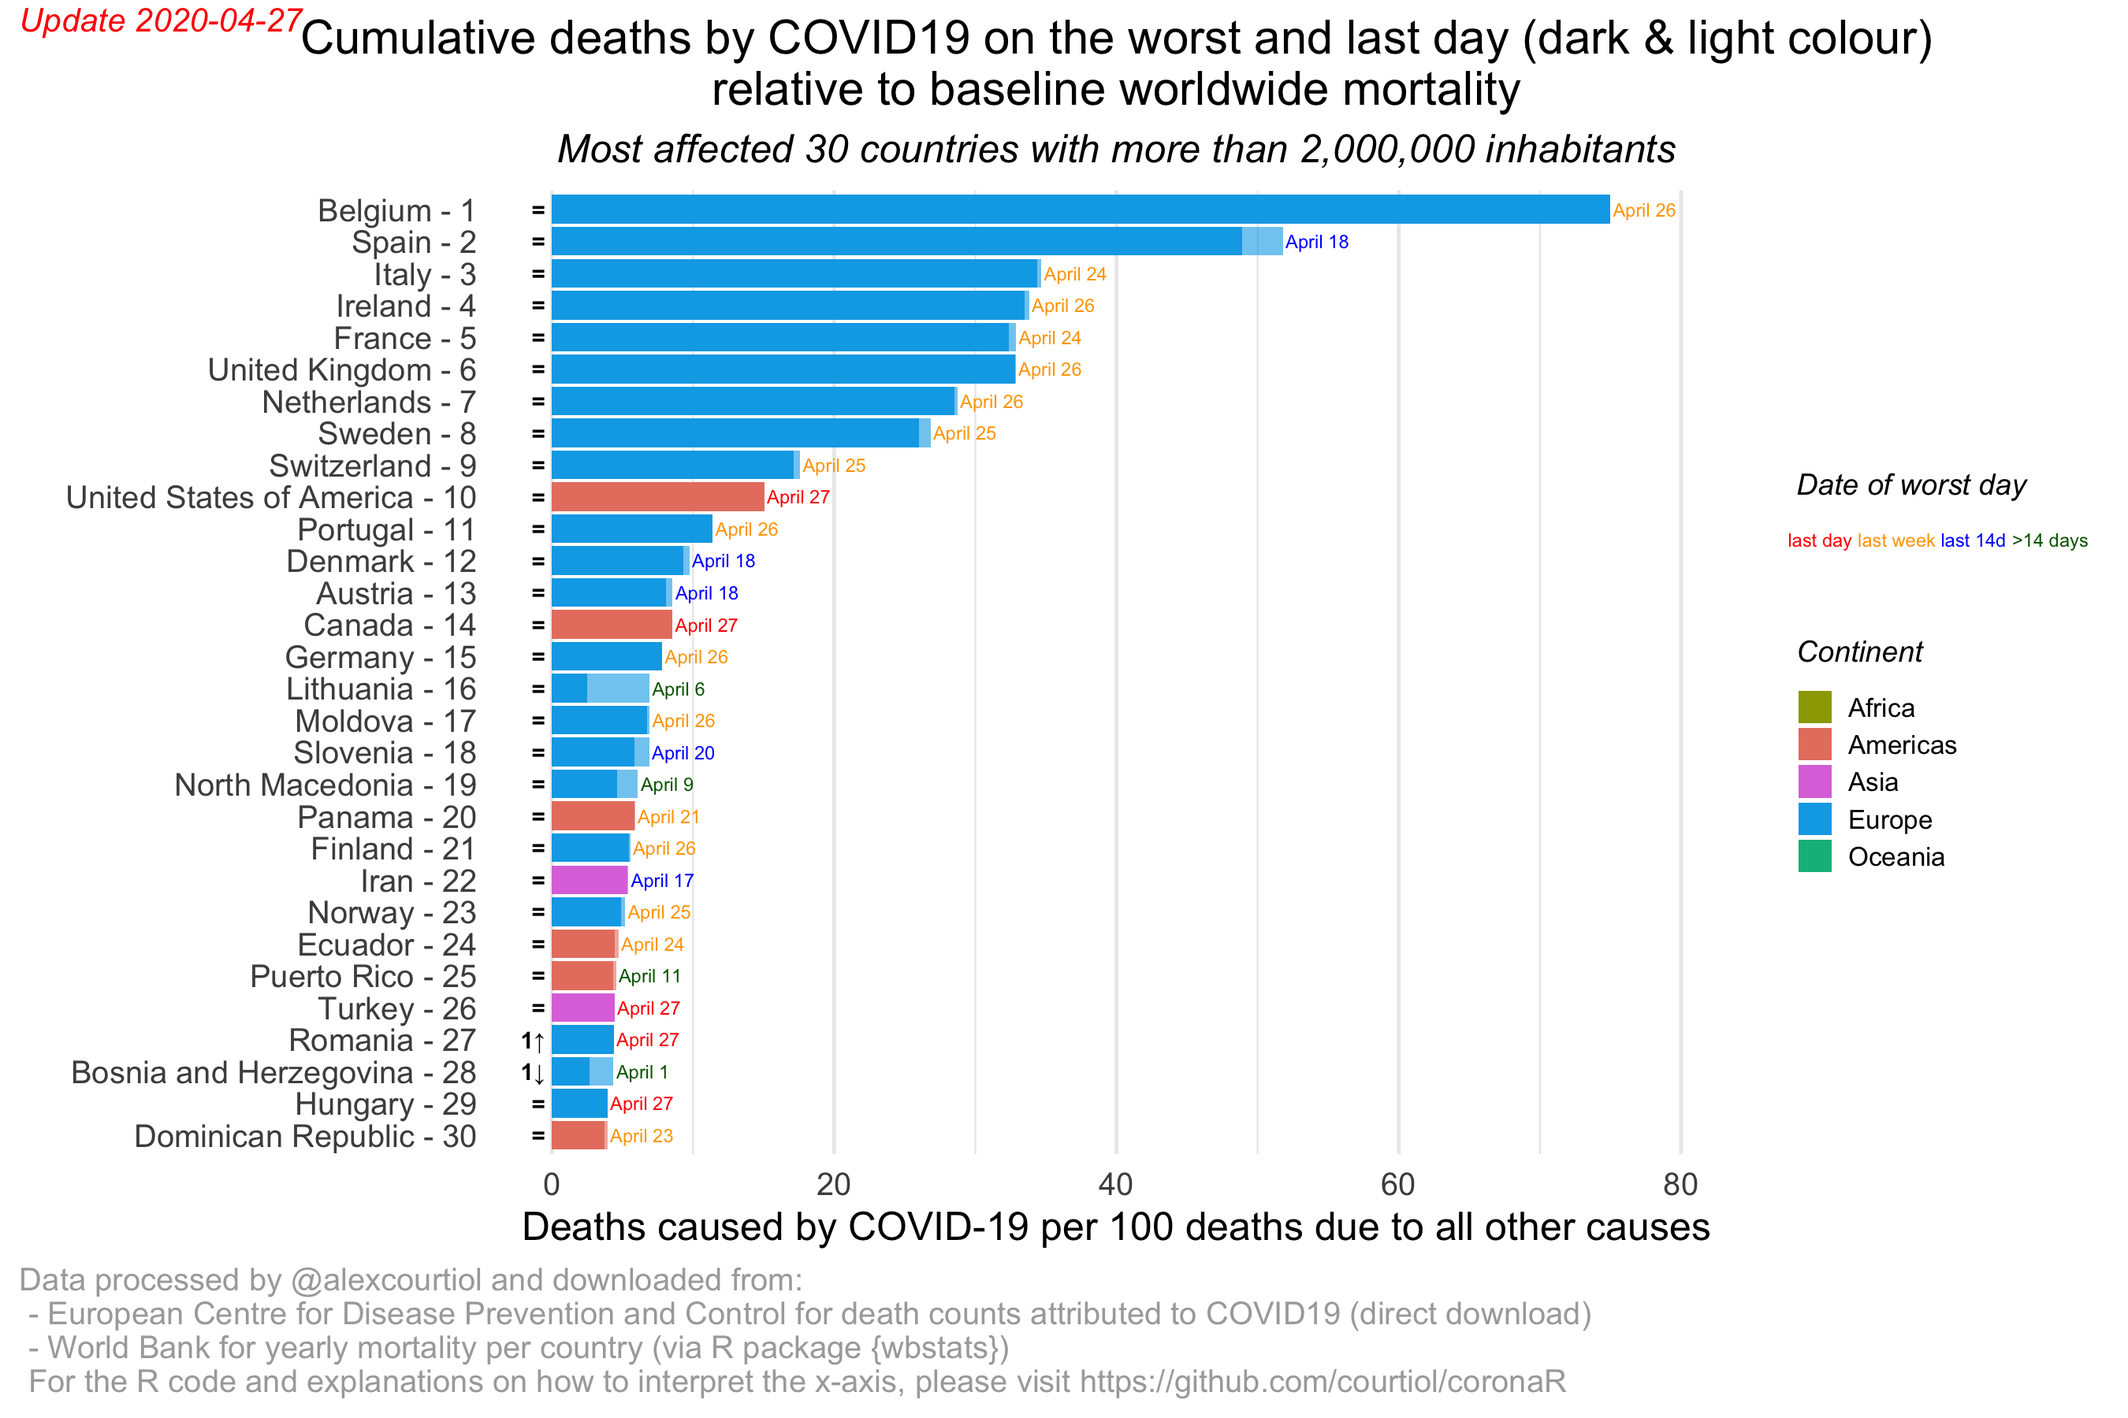
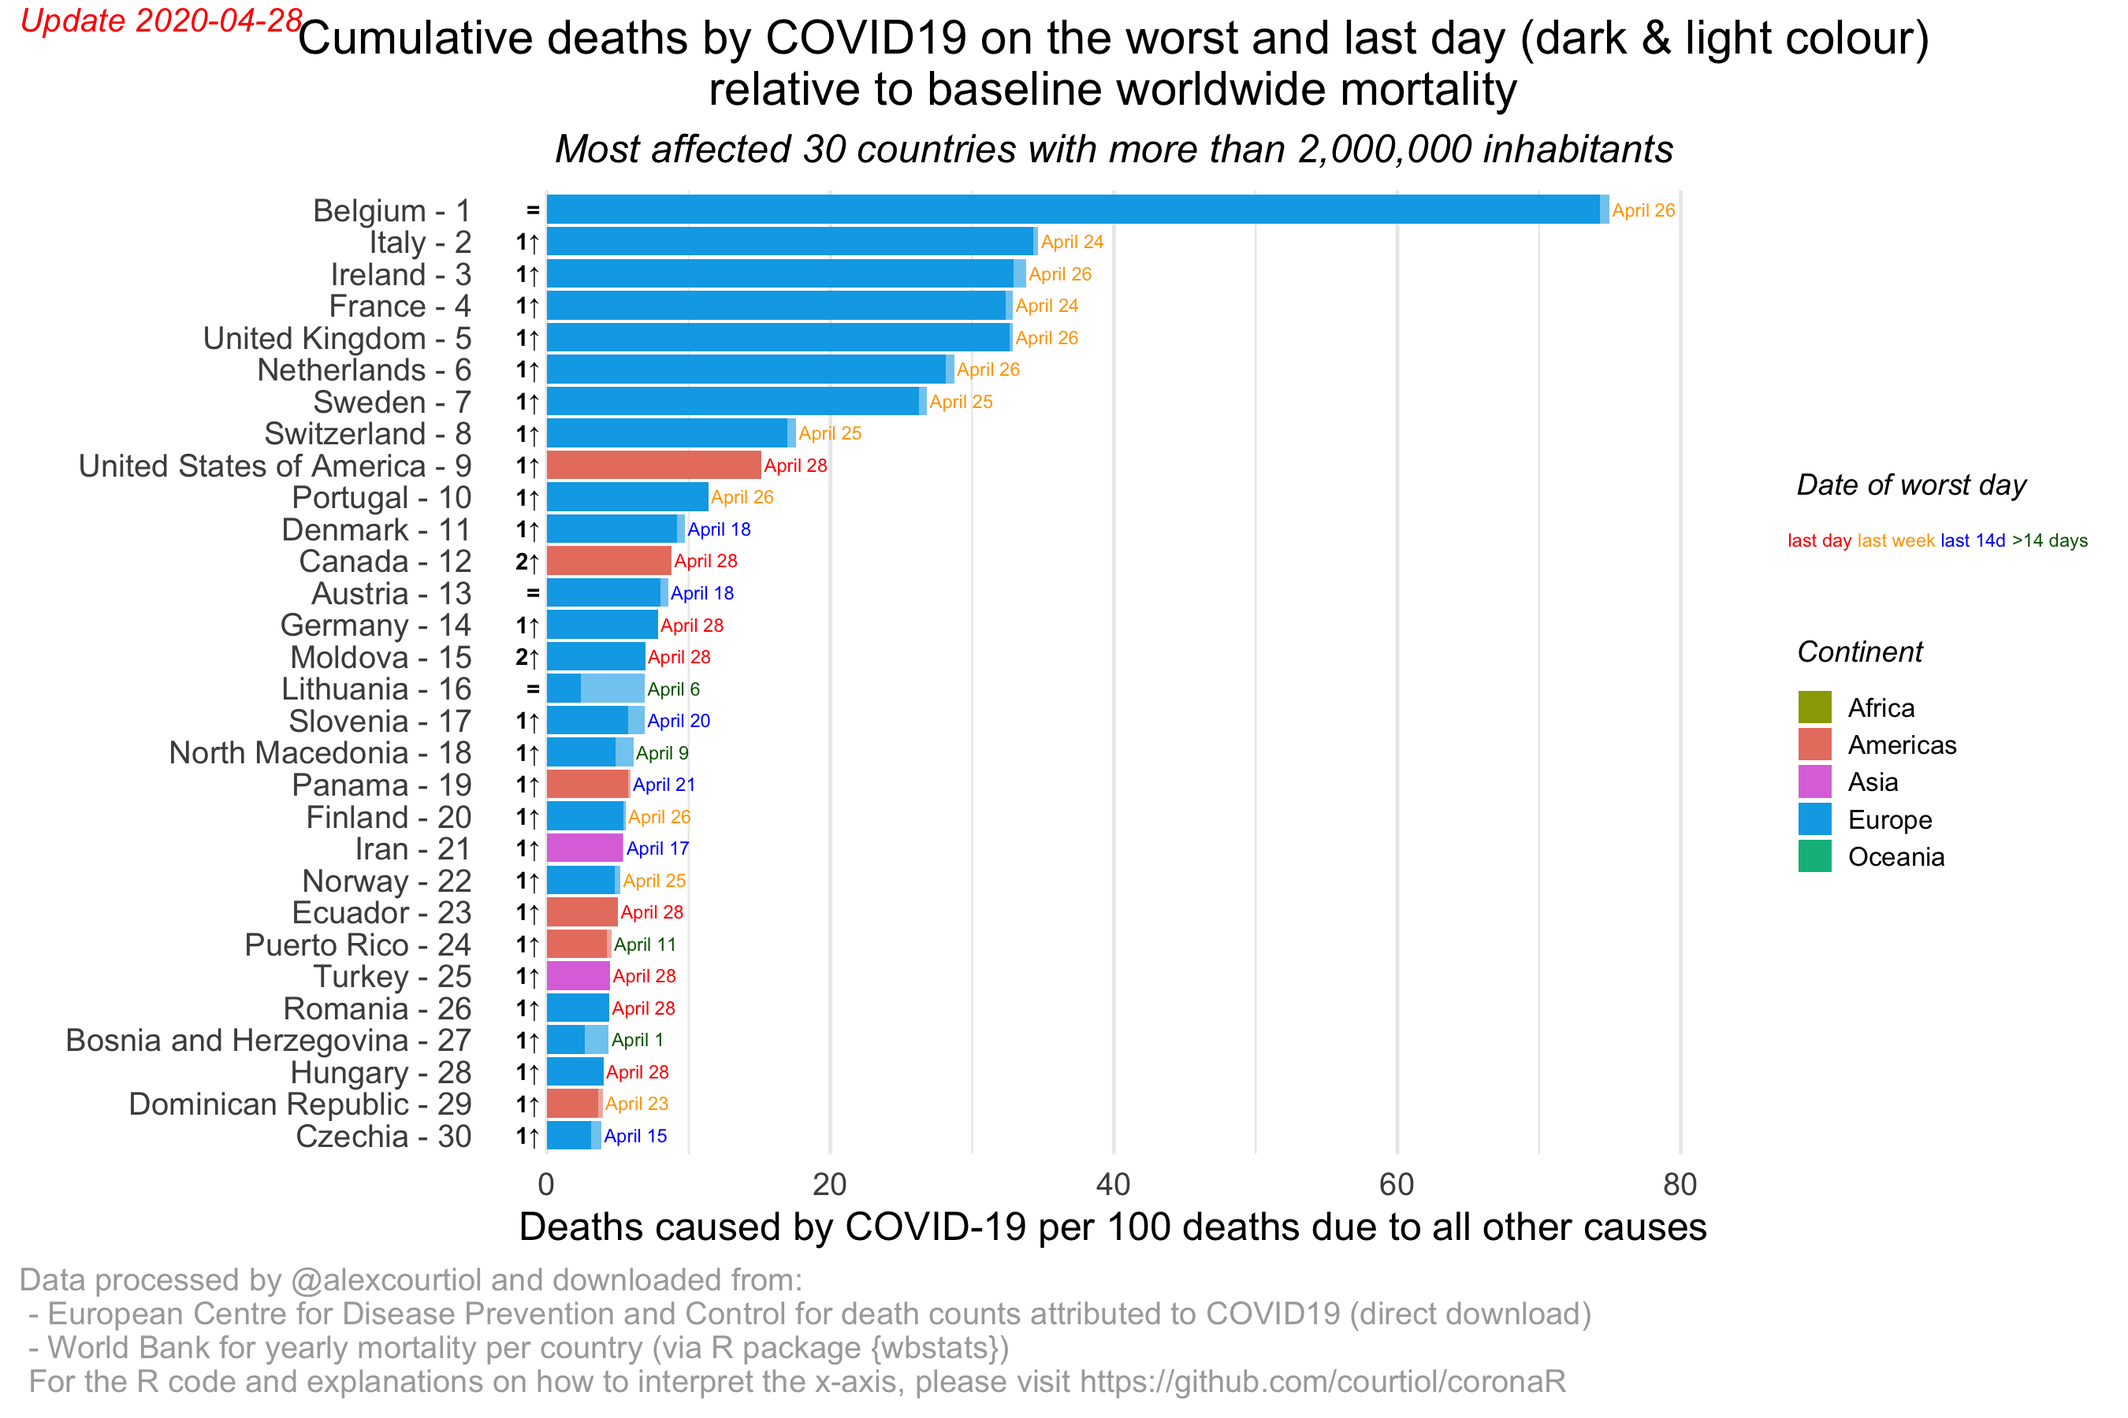
Update 20202804

Changed region(s): [[0.0311, 0.1244, 0.8089, 0.8711], [0.1244, 0.0, 0.9022, 0.1556]]

diff --git a/README.md b/README.md
@@ -95,23 +95,23 @@ library(coronaR)
 today <- Sys.Date() ## note: you can change the date, to rebuild plots retrospectively
 data_COVID <- prepare_data_ECDC(path_save_data = "~/Downloads/COVID19",
                                 date_of_report = today)
-#> The source of the COVID data have been stored in~/Downloads/COVID19/COVID-19-geographic-disbtribution-worldwide-2020-04-27.xlsx!
+#> The source of the COVID data have been stored in~/Downloads/COVID19/COVID-19-geographic-disbtribution-worldwide-2020-04-28.xlsx!
 #> Warning in countrycode::countrycode(.data$iso2c, origin = "iso2c", destination = "continent"): Some values were not matched unambiguously: XK
 data_COVID
-#> # A tibble: 13,418 x 9
+#> # A tibble: 13,623 x 9
 #>    country iso2c continent date_report date_report_last cases deaths_daily
 #>    <chr>   <chr> <fct>     <date>      <date>           <dbl>        <dbl>
-#>  1 Afghan… AF    Asia      2019-12-31  2020-04-27           0            0
-#>  2 Afghan… AF    Asia      2020-01-01  2020-04-27           0            0
-#>  3 Afghan… AF    Asia      2020-01-02  2020-04-27           0            0
-#>  4 Afghan… AF    Asia      2020-01-03  2020-04-27           0            0
-#>  5 Afghan… AF    Asia      2020-01-04  2020-04-27           0            0
-#>  6 Afghan… AF    Asia      2020-01-05  2020-04-27           0            0
-#>  7 Afghan… AF    Asia      2020-01-06  2020-04-27           0            0
-#>  8 Afghan… AF    Asia      2020-01-07  2020-04-27           0            0
-#>  9 Afghan… AF    Asia      2020-01-08  2020-04-27           0            0
-#> 10 Afghan… AF    Asia      2020-01-09  2020-04-27           0            0
-#> # … with 13,408 more rows, and 2 more variables: deaths_cumul <dbl>,
+#>  1 Afghan… AF    Asia      2019-12-31  2020-04-28           0            0
+#>  2 Afghan… AF    Asia      2020-01-01  2020-04-28           0            0
+#>  3 Afghan… AF    Asia      2020-01-02  2020-04-28           0            0
+#>  4 Afghan… AF    Asia      2020-01-03  2020-04-28           0            0
+#>  5 Afghan… AF    Asia      2020-01-04  2020-04-28           0            0
+#>  6 Afghan… AF    Asia      2020-01-05  2020-04-28           0            0
+#>  7 Afghan… AF    Asia      2020-01-06  2020-04-28           0            0
+#>  8 Afghan… AF    Asia      2020-01-07  2020-04-28           0            0
+#>  9 Afghan… AF    Asia      2020-01-08  2020-04-28           0            0
+#> 10 Afghan… AF    Asia      2020-01-09  2020-04-28           0            0
+#> # … with 13,613 more rows, and 2 more variables: deaths_cumul <dbl>,
 #> #   date_first_10_cumul_deaths <date>
   
 ## NOTE: the following Warning is expected:
@@ -248,32 +248,32 @@ full_data <- merge_datasets(data_ECDC = data_COVID,
 
 ``` r
 str(full_data)
-#> tibble [10,374 × 24] (S3: tbl_df/tbl/data.frame)
-#>  $ country                         : chr [1:10374] "Afghanistan" "Afghanistan" "Afghanistan" "Afghanistan" ...
+#> tibble [10,515 × 24] (S3: tbl_df/tbl/data.frame)
+#>  $ country                         : chr [1:10515] "Afghanistan" "Afghanistan" "Afghanistan" "Afghanistan" ...
 #>  $ continent                       : Factor w/ 5 levels "Africa","Americas",..: 3 3 3 3 3 3 3 3 3 3 ...
-#>  $ date_report                     : Date[1:10374], format: "2020-04-27" "2020-04-26" ...
-#>  $ date_report_last                : Date[1:10374], format: "2020-04-27" "2020-04-27" ...
-#>  $ cases                           : num [1:10374] 68 112 70 105 84 61 35 88 63 51 ...
-#>  $ deaths_daily                    : num [1:10374] 21 4 1 2 4 1 2 3 0 1 ...
-#>  $ deaths_cumul                    : num [1:10374] 68 47 43 42 40 36 35 33 30 30 ...
-#>  $ date_first_10_cumul_deaths      : Date[1:10374], format: "2020-04-08" "2020-04-08" ...
-#>  $ year_mortality                  : num [1:10374] 2018 2018 2018 2018 2018 ...
-#>  $ total_death_year                : num [1:10374] 238758 238758 238758 238758 238758 ...
-#>  $ total_death_day                 : num [1:10374] 654 654 654 654 654 ...
-#>  $ total_death_year_world          : num [1:10374] 56650926 56650926 56650926 56650926 56650926 ...
-#>  $ total_death_day_world           : num [1:10374] 155208 155208 155208 155208 155208 ...
-#>  $ country_pop                     : num [1:10374] 37172386 37172386 37172386 37172386 37172386 ...
-#>  $ world_pop                       : num [1:10374] 7.51e+09 7.51e+09 7.51e+09 7.51e+09 7.51e+09 ...
-#>  $ days_since_first_10_cumul_deaths: 'difftime' num [1:10374] 19 18 17 16 ...
+#>  $ date_report                     : Date[1:10515], format: "2020-04-28" "2020-04-27" ...
+#>  $ date_report_last                : Date[1:10515], format: "2020-04-28" "2020-04-28" ...
+#>  $ cases                           : num [1:10515] 172 68 112 70 105 84 61 35 88 63 ...
+#>  $ deaths_daily                    : num [1:10515] 0 10 4 1 2 4 1 2 3 0 ...
+#>  $ deaths_cumul                    : num [1:10515] 57 57 47 43 42 40 36 35 33 30 ...
+#>  $ date_first_10_cumul_deaths      : Date[1:10515], format: "2020-04-08" "2020-04-08" ...
+#>  $ year_mortality                  : num [1:10515] 2018 2018 2018 2018 2018 ...
+#>  $ total_death_year                : num [1:10515] 238758 238758 238758 238758 238758 ...
+#>  $ total_death_day                 : num [1:10515] 654 654 654 654 654 ...
+#>  $ total_death_year_world          : num [1:10515] 56650926 56650926 56650926 56650926 56650926 ...
+#>  $ total_death_day_world           : num [1:10515] 155208 155208 155208 155208 155208 ...
+#>  $ country_pop                     : num [1:10515] 37172386 37172386 37172386 37172386 37172386 ...
+#>  $ world_pop                       : num [1:10515] 7.51e+09 7.51e+09 7.51e+09 7.51e+09 7.51e+09 ...
+#>  $ days_since_first_10_cumul_deaths: 'difftime' num [1:10515] 20 19 18 17 ...
 #>   ..- attr(*, "units")= chr "days"
-#>  $ extra_mortality_daily_country   : num [1:10374] 3.21 0.611 0.153 0.306 0.611 ...
-#>  $ extra_mortality_cumul_country   : num [1:10374] 0.451 0.306 0.289 0.297 0.296 ...
-#>  $ country_weight                  : num [1:10374] 0.00495 0.00495 0.00495 0.00495 0.00495 ...
-#>  $ extra_mortality_daily_world     : num [1:10374] 2.734 0.521 0.13 0.26 0.521 ...
-#>  $ extra_mortality_cumul_world     : num [1:10374] 0.384 0.26 0.246 0.253 0.252 ...
-#>  $ extra_mortality                 : num [1:10374] 3.21 0.611 0.611 0.611 0.611 ...
-#>  $ date                            : Date[1:10374], format: "2020-04-27" "2020-04-27" ...
-#>  $ days_since_date                 : 'difftime' num [1:10374] 0 0 0 0 ...
+#>  $ extra_mortality_daily_country   : num [1:10515] 0 1.529 0.611 0.153 0.306 ...
+#>  $ extra_mortality_cumul_country   : num [1:10515] 0.349 0.367 0.306 0.289 0.297 ...
+#>  $ country_weight                  : num [1:10515] 0.00495 0.00495 0.00495 0.00495 0.00495 ...
+#>  $ extra_mortality_daily_world     : num [1:10515] 0 1.302 0.521 0.13 0.26 ...
+#>  $ extra_mortality_cumul_world     : num [1:10515] 0.298 0.312 0.26 0.246 0.253 ...
+#>  $ extra_mortality                 : num [1:10515] 1.529 1.529 0.611 0.611 0.611 ...
+#>  $ date                            : Date[1:10515], format: "2020-04-27" "2020-04-27" ...
+#>  $ days_since_date                 : 'difftime' num [1:10515] 1 1 1 1 ...
 #>   ..- attr(*, "units")= chr "days"
 ```
 
@@ -345,83 +345,83 @@ Here is my current R/computer configuration:
 devtools::session_info()
 #> ─ Session info ───────────────────────────────────────────────────────────────
 #>  setting  value                       
-#>  version  R version 3.6.3 (2020-02-29)
+#>  version  R version 4.0.0 (2020-04-24)
 #>  os       macOS Catalina 10.15.3      
-#>  system   x86_64, darwin15.6.0        
+#>  system   x86_64, darwin17.0          
 #>  ui       X11                         
 #>  language (EN)                        
 #>  collate  en_US.UTF-8                 
 #>  ctype    en_US.UTF-8                 
 #>  tz       Europe/Berlin               
-#>  date     2020-04-27                  
+#>  date     2020-04-28                  
 #> 
 #> ─ Packages ───────────────────────────────────────────────────────────────────
 #>  package     * version    date       lib source        
-#>  assertthat    0.2.1      2019-03-21 [1] CRAN (R 3.6.0)
-#>  backports     1.1.6      2020-04-05 [1] CRAN (R 3.6.2)
-#>  callr         3.4.3      2020-03-28 [1] CRAN (R 3.6.2)
-#>  cellranger    1.1.0      2016-07-27 [1] CRAN (R 3.6.0)
-#>  cli           2.0.2      2020-02-28 [1] CRAN (R 3.6.0)
-#>  colorspace    1.4-1      2019-03-18 [1] CRAN (R 3.6.0)
-#>  coronaR     * 0.0.0.9000 2020-04-23 [1] local         
-#>  countrycode   1.1.2      2020-04-22 [1] CRAN (R 3.6.3)
-#>  crayon        1.3.4      2017-09-16 [1] CRAN (R 3.6.0)
-#>  curl          4.3        2019-12-02 [1] CRAN (R 3.6.0)
-#>  desc          1.2.0      2018-05-01 [1] CRAN (R 3.6.0)
-#>  devtools      2.3.0      2020-04-10 [1] CRAN (R 3.6.3)
-#>  digest        0.6.25     2020-02-23 [1] CRAN (R 3.6.0)
-#>  dplyr         0.8.5      2020-03-07 [1] CRAN (R 3.6.0)
-#>  ellipsis      0.3.0      2019-09-20 [1] CRAN (R 3.6.0)
-#>  evaluate      0.14       2019-05-28 [1] CRAN (R 3.6.0)
-#>  fansi         0.4.1      2020-01-08 [1] CRAN (R 3.6.0)
-#>  farver        2.0.3      2020-01-16 [1] CRAN (R 3.6.0)
-#>  forcats       0.5.0      2020-03-01 [1] CRAN (R 3.6.0)
-#>  fs            1.4.1      2020-04-04 [1] CRAN (R 3.6.2)
-#>  generics      0.0.2      2018-11-29 [1] CRAN (R 3.6.0)
-#>  ggplot2       3.3.0      2020-03-05 [1] CRAN (R 3.6.0)
-#>  glue          1.4.0      2020-04-03 [1] CRAN (R 3.6.2)
-#>  gtable        0.3.0      2019-03-25 [1] CRAN (R 3.6.0)
-#>  htmltools     0.4.0      2019-10-04 [1] CRAN (R 3.6.0)
-#>  httr          1.4.1      2019-08-05 [1] CRAN (R 3.6.0)
-#>  jsonlite      1.6.1      2020-02-02 [1] CRAN (R 3.6.0)
-#>  knitr         1.28       2020-02-06 [1] CRAN (R 3.6.0)
-#>  lifecycle     0.2.0      2020-03-06 [1] CRAN (R 3.6.0)
-#>  lubridate     1.7.8      2020-04-06 [1] CRAN (R 3.6.2)
-#>  magrittr      1.5        2014-11-22 [1] CRAN (R 3.6.0)
-#>  memoise       1.1.0      2017-04-21 [1] CRAN (R 3.6.0)
-#>  munsell       0.5.0      2018-06-12 [1] CRAN (R 3.6.0)
-#>  pillar        1.4.3      2019-12-20 [1] CRAN (R 3.6.0)
-#>  pkgbuild      1.0.6      2019-10-09 [1] CRAN (R 3.6.0)
-#>  pkgconfig     2.0.3      2019-09-22 [1] CRAN (R 3.6.0)
-#>  pkgload       1.0.2      2018-10-29 [1] CRAN (R 3.6.0)
-#>  prettyunits   1.1.1      2020-01-24 [1] CRAN (R 3.6.0)
-#>  processx      3.4.2      2020-02-09 [1] CRAN (R 3.6.0)
-#>  ps            1.3.2      2020-02-13 [1] CRAN (R 3.6.0)
-#>  purrr         0.3.4      2020-04-17 [1] CRAN (R 3.6.2)
-#>  R6            2.4.1      2019-11-12 [1] CRAN (R 3.6.0)
-#>  Rcpp          1.0.4.6    2020-04-09 [1] CRAN (R 3.6.3)
-#>  readxl        1.3.1      2019-03-13 [1] CRAN (R 3.6.0)
-#>  remotes       2.1.1      2020-02-15 [1] CRAN (R 3.6.0)
-#>  rlang         0.4.5      2020-03-01 [1] CRAN (R 3.6.0)
-#>  rmarkdown     2.1        2020-01-20 [1] CRAN (R 3.6.0)
-#>  rprojroot     1.3-2      2018-01-03 [1] CRAN (R 3.6.0)
-#>  scales        1.1.0      2019-11-18 [1] CRAN (R 3.6.0)
-#>  sessioninfo   1.1.1      2018-11-05 [1] CRAN (R 3.6.0)
-#>  stringi       1.4.6      2020-02-17 [1] CRAN (R 3.6.0)
-#>  stringr       1.4.0      2019-02-10 [1] CRAN (R 3.6.0)
-#>  testthat      2.3.2      2020-03-02 [1] CRAN (R 3.6.0)
-#>  tibble        3.0.1      2020-04-20 [1] CRAN (R 3.6.2)
-#>  tidyr         1.0.2      2020-01-24 [1] CRAN (R 3.6.0)
-#>  tidyselect    1.0.0      2020-01-27 [1] CRAN (R 3.6.0)
-#>  usethis       1.6.0      2020-04-09 [1] CRAN (R 3.6.3)
-#>  utf8          1.1.4      2018-05-24 [1] CRAN (R 3.6.0)
-#>  vctrs         0.2.4      2020-03-10 [1] CRAN (R 3.6.0)
-#>  wbstats       0.2        2018-01-03 [1] CRAN (R 3.6.0)
-#>  withr         2.2.0      2020-04-20 [1] CRAN (R 3.6.2)
-#>  xfun          0.13       2020-04-13 [1] CRAN (R 3.6.2)
-#>  yaml          2.2.1      2020-02-01 [1] CRAN (R 3.6.0)
+#>  assertthat    0.2.1      2019-03-21 [1] CRAN (R 4.0.0)
+#>  backports     1.1.6      2020-04-05 [1] CRAN (R 4.0.0)
+#>  callr         3.4.3      2020-03-28 [1] CRAN (R 4.0.0)
+#>  cellranger    1.1.0      2016-07-27 [1] CRAN (R 4.0.0)
+#>  cli           2.0.2      2020-02-28 [1] CRAN (R 4.0.0)
+#>  colorspace    1.4-1      2019-03-18 [1] CRAN (R 4.0.0)
+#>  coronaR     * 0.0.0.9000 2020-04-28 [1] local         
+#>  countrycode   1.1.2      2020-04-22 [1] CRAN (R 4.0.0)
+#>  crayon        1.3.4      2017-09-16 [1] CRAN (R 4.0.0)
+#>  curl          4.3        2019-12-02 [1] CRAN (R 4.0.0)
+#>  desc          1.2.0      2018-05-01 [1] CRAN (R 4.0.0)
+#>  devtools      2.3.0      2020-04-10 [1] CRAN (R 4.0.0)
+#>  digest        0.6.25     2020-02-23 [1] CRAN (R 4.0.0)
+#>  dplyr         0.8.5      2020-03-07 [1] CRAN (R 4.0.0)
+#>  ellipsis      0.3.0      2019-09-20 [1] CRAN (R 4.0.0)
+#>  evaluate      0.14       2019-05-28 [1] CRAN (R 4.0.0)
+#>  fansi         0.4.1      2020-01-08 [1] CRAN (R 4.0.0)
+#>  farver        2.0.3      2020-01-16 [1] CRAN (R 4.0.0)
+#>  forcats       0.5.0      2020-03-01 [1] CRAN (R 4.0.0)
+#>  fs            1.4.1      2020-04-04 [1] CRAN (R 4.0.0)
+#>  generics      0.0.2      2018-11-29 [1] CRAN (R 4.0.0)
+#>  ggplot2       3.3.0      2020-03-05 [1] CRAN (R 4.0.0)
+#>  glue          1.4.0      2020-04-03 [1] CRAN (R 4.0.0)
+#>  gtable        0.3.0      2019-03-25 [1] CRAN (R 4.0.0)
+#>  htmltools     0.4.0      2019-10-04 [1] CRAN (R 4.0.0)
+#>  httr          1.4.1      2019-08-05 [1] CRAN (R 4.0.0)
+#>  jsonlite      1.6.1      2020-02-02 [1] CRAN (R 4.0.0)
+#>  knitr         1.28       2020-02-06 [1] CRAN (R 4.0.0)
+#>  lifecycle     0.2.0      2020-03-06 [1] CRAN (R 4.0.0)
+#>  lubridate     1.7.8      2020-04-06 [1] CRAN (R 4.0.0)
+#>  magrittr      1.5        2014-11-22 [1] CRAN (R 4.0.0)
+#>  memoise       1.1.0      2017-04-21 [1] CRAN (R 4.0.0)
+#>  munsell       0.5.0      2018-06-12 [1] CRAN (R 4.0.0)
+#>  pillar        1.4.3      2019-12-20 [1] CRAN (R 4.0.0)
+#>  pkgbuild      1.0.7      2020-04-25 [1] CRAN (R 4.0.0)
+#>  pkgconfig     2.0.3      2019-09-22 [1] CRAN (R 4.0.0)
+#>  pkgload       1.0.2      2018-10-29 [1] CRAN (R 4.0.0)
+#>  prettyunits   1.1.1      2020-01-24 [1] CRAN (R 4.0.0)
+#>  processx      3.4.2      2020-02-09 [1] CRAN (R 4.0.0)
+#>  ps            1.3.2      2020-02-13 [1] CRAN (R 4.0.0)
+#>  purrr         0.3.4      2020-04-17 [1] CRAN (R 4.0.0)
+#>  R6            2.4.1      2019-11-12 [1] CRAN (R 4.0.0)
+#>  Rcpp          1.0.4.6    2020-04-09 [1] CRAN (R 4.0.0)
+#>  readxl        1.3.1      2019-03-13 [1] CRAN (R 4.0.0)
+#>  remotes       2.1.1      2020-02-15 [1] CRAN (R 4.0.0)
+#>  rlang         0.4.5      2020-03-01 [1] CRAN (R 4.0.0)
+#>  rmarkdown     2.1        2020-01-20 [1] CRAN (R 4.0.0)
+#>  rprojroot     1.3-2      2018-01-03 [1] CRAN (R 4.0.0)
+#>  scales        1.1.0      2019-11-18 [1] CRAN (R 4.0.0)
+#>  sessioninfo   1.1.1      2018-11-05 [1] CRAN (R 4.0.0)
+#>  stringi       1.4.6      2020-02-17 [1] CRAN (R 4.0.0)
+#>  stringr       1.4.0      2019-02-10 [1] CRAN (R 4.0.0)
+#>  testthat      2.3.2      2020-03-02 [1] CRAN (R 4.0.0)
+#>  tibble        3.0.1      2020-04-20 [1] CRAN (R 4.0.0)
+#>  tidyr         1.0.2      2020-01-24 [1] CRAN (R 4.0.0)
+#>  tidyselect    1.0.0      2020-01-27 [1] CRAN (R 4.0.0)
+#>  usethis       1.6.0      2020-04-09 [1] CRAN (R 4.0.0)
+#>  utf8          1.1.4      2018-05-24 [1] CRAN (R 4.0.0)
+#>  vctrs         0.2.4      2020-03-10 [1] CRAN (R 4.0.0)
+#>  wbstats       0.2        2018-01-03 [1] CRAN (R 4.0.0)
+#>  withr         2.2.0      2020-04-20 [1] CRAN (R 4.0.0)
+#>  xfun          0.13       2020-04-13 [1] CRAN (R 4.0.0)
+#>  yaml          2.2.1      2020-02-01 [1] CRAN (R 4.0.0)
 #> 
-#> [1] /Library/Frameworks/R.framework/Versions/3.6/Resources/library
+#> [1] /Library/Frameworks/R.framework/Versions/4.0/Resources/library
 ```
 
 ## Help & feedbacks wanted\!
